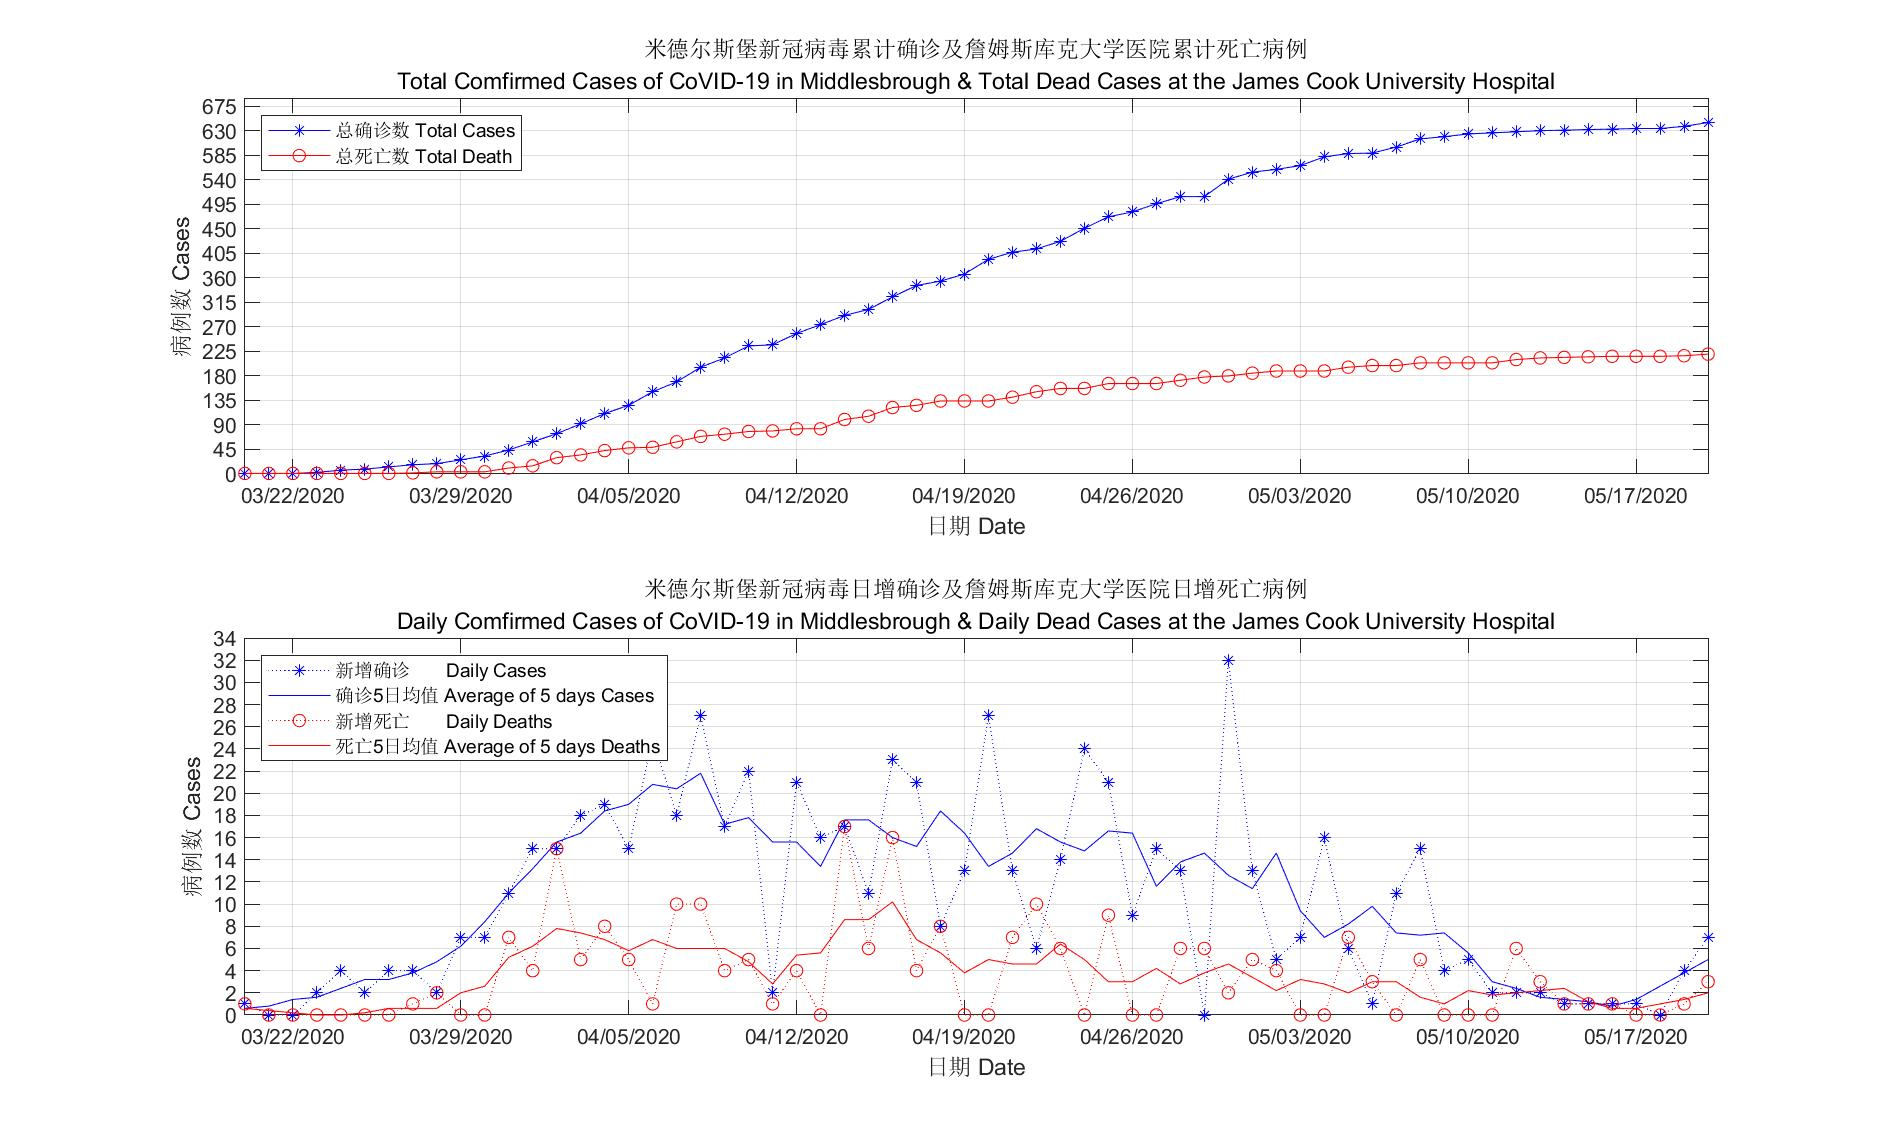
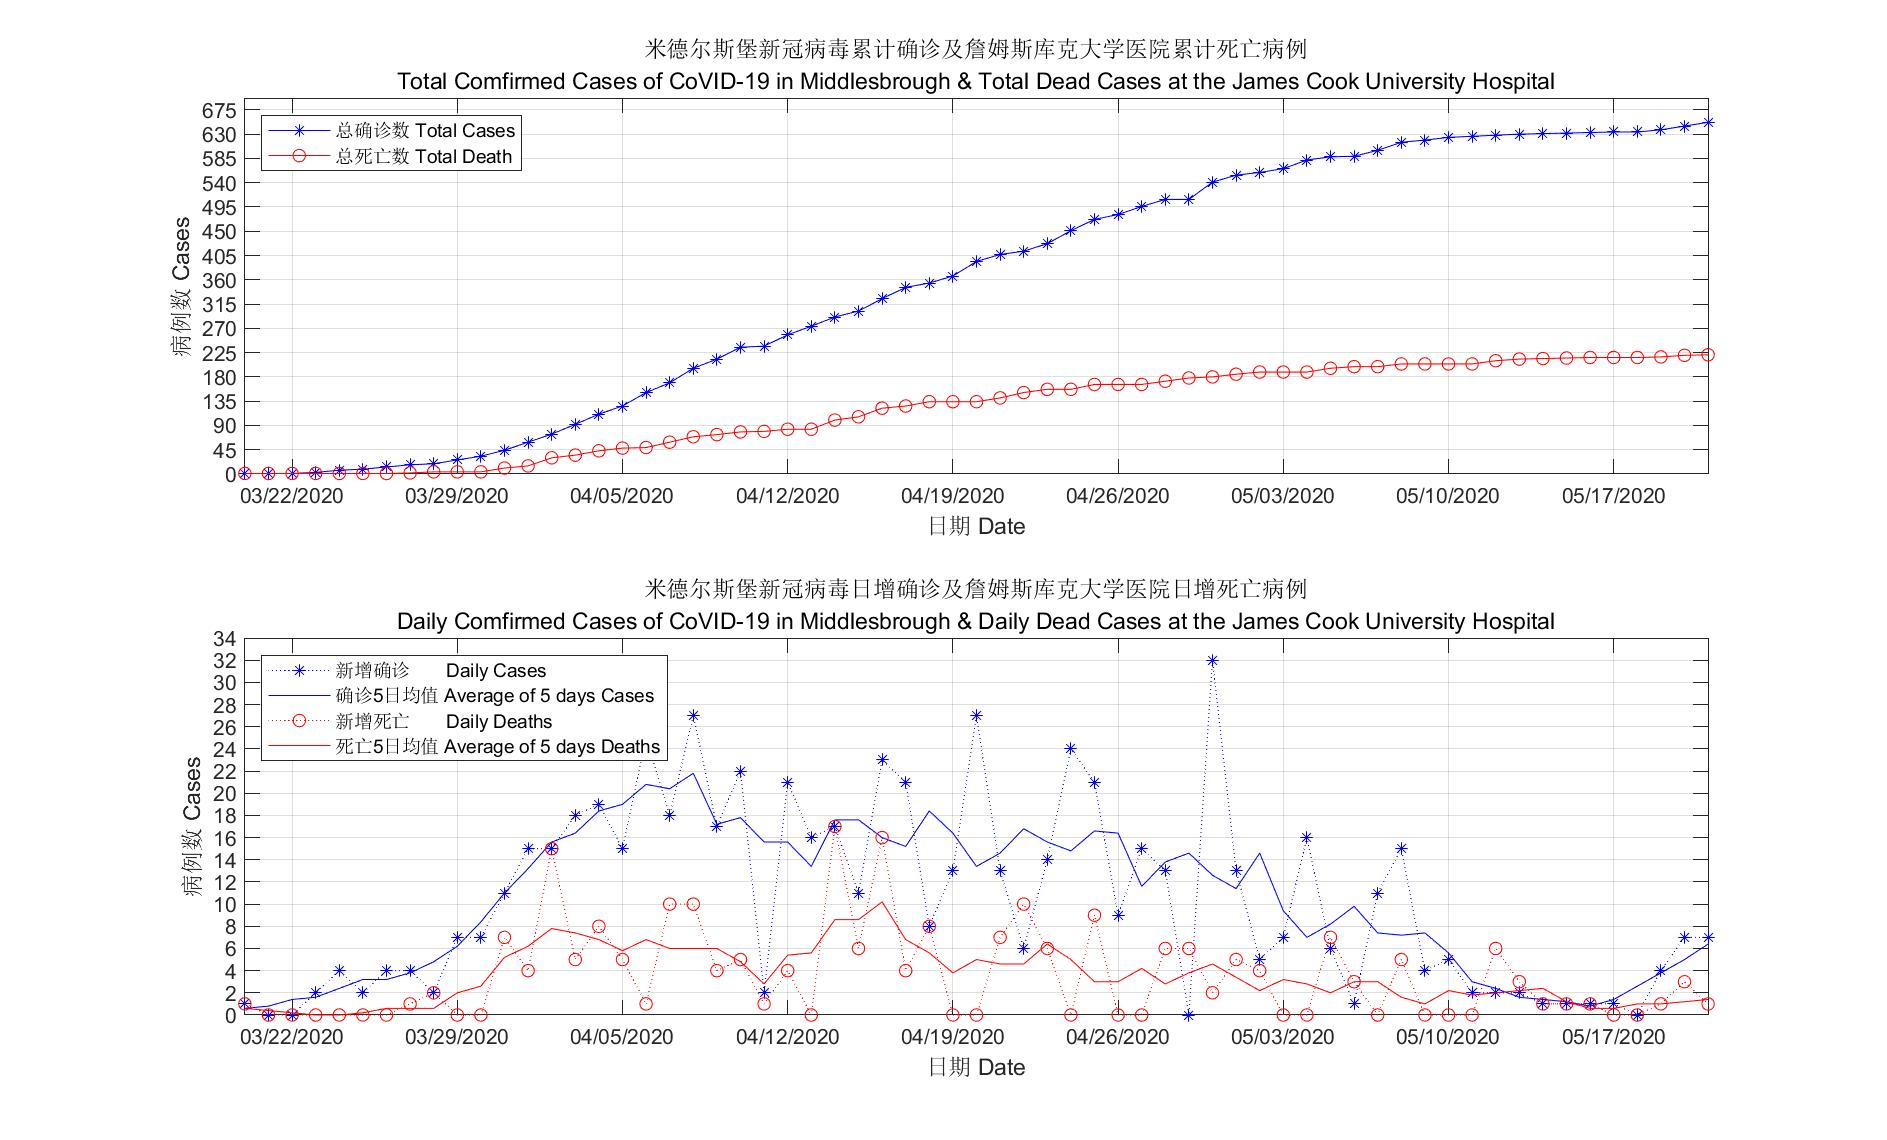
Update

diff --git a/Covid19_TS1.py b/Covid19_TS1.py
@@ -12,12 +12,12 @@ from matplotlib.ticker import MultipleLocator, FormatStrFormatter
 cases = [1, 1, 1, 3, 7, 9, 13, 17, 19, 26, 33, 44, 59, 74, 92, 111, 126, 151, 169, 196, 213,\
     235, 237, 258, 274, 291, 302, 325, 346, 354, 367, 394, 407, 413, 427, 451, 472, 481, 496,\
     509, 509, 541, 554, 559, 566, 582, 588, 589, 600, 615, 619, 624, 626, 628, 630, 631, 632,\
-    633, 634, 634, 638, 645]
+    633, 634, 634, 638, 645, 652]
 #deaths data from NHS
 dcases = [1, 1, 1, 1, 1, 1, 1, 2, 4, 4, 4, 11, 15, 30, 35, 43, 48, 49, 59, 69, 73, 78, 79, 83,\
     83, 100, 106, 122, 126, 134, 134, 134, 141, 151, 157, 157, 166, 166, 166, 172, 178, 180,\
     185, 189, 189, 189, 196, 199, 199, 204, 204, 204, 204, 210, 213, 214, 215, 216, 216, 216,\
-    217, 220]
+    217, 220, 221]
 
 #Initial
 #Date config

diff --git a/covid19_TS1.m b/covid19_TS1.m
@@ -8,12 +8,12 @@
 cases = [1 1 1 3 7 9 13 17 19 26 33 44 59 74 92 111 126 151 169 196 213 ...
     235 237 258 274 291 302 325 346 354 367 394 407 413 427 451 472 481 ...
     496 509 509 541 554 559 566 582 588 589 600 615 619 624 626 628 630 ...
-    631 632 633 634 634 638 645];
+    631 632 633 634 634 638 645 652];
 %deaths data from NHS
 dcases = [1 1 1 1 1 1 1 2 4 4 4 11 15 30 35 43 48 49 59 69 73 78 79 83 ...
     83 100 106 122 126 134 134 134 141 151 157 157 166 166 166 172 178 ...
     180 185 189 189 189 196 199 199 204 204 204 204 210 213 214 215 216 ...
-    216 216 217 220];
+    216 216 217 220 221];
 
 %Initial
 %Date config
